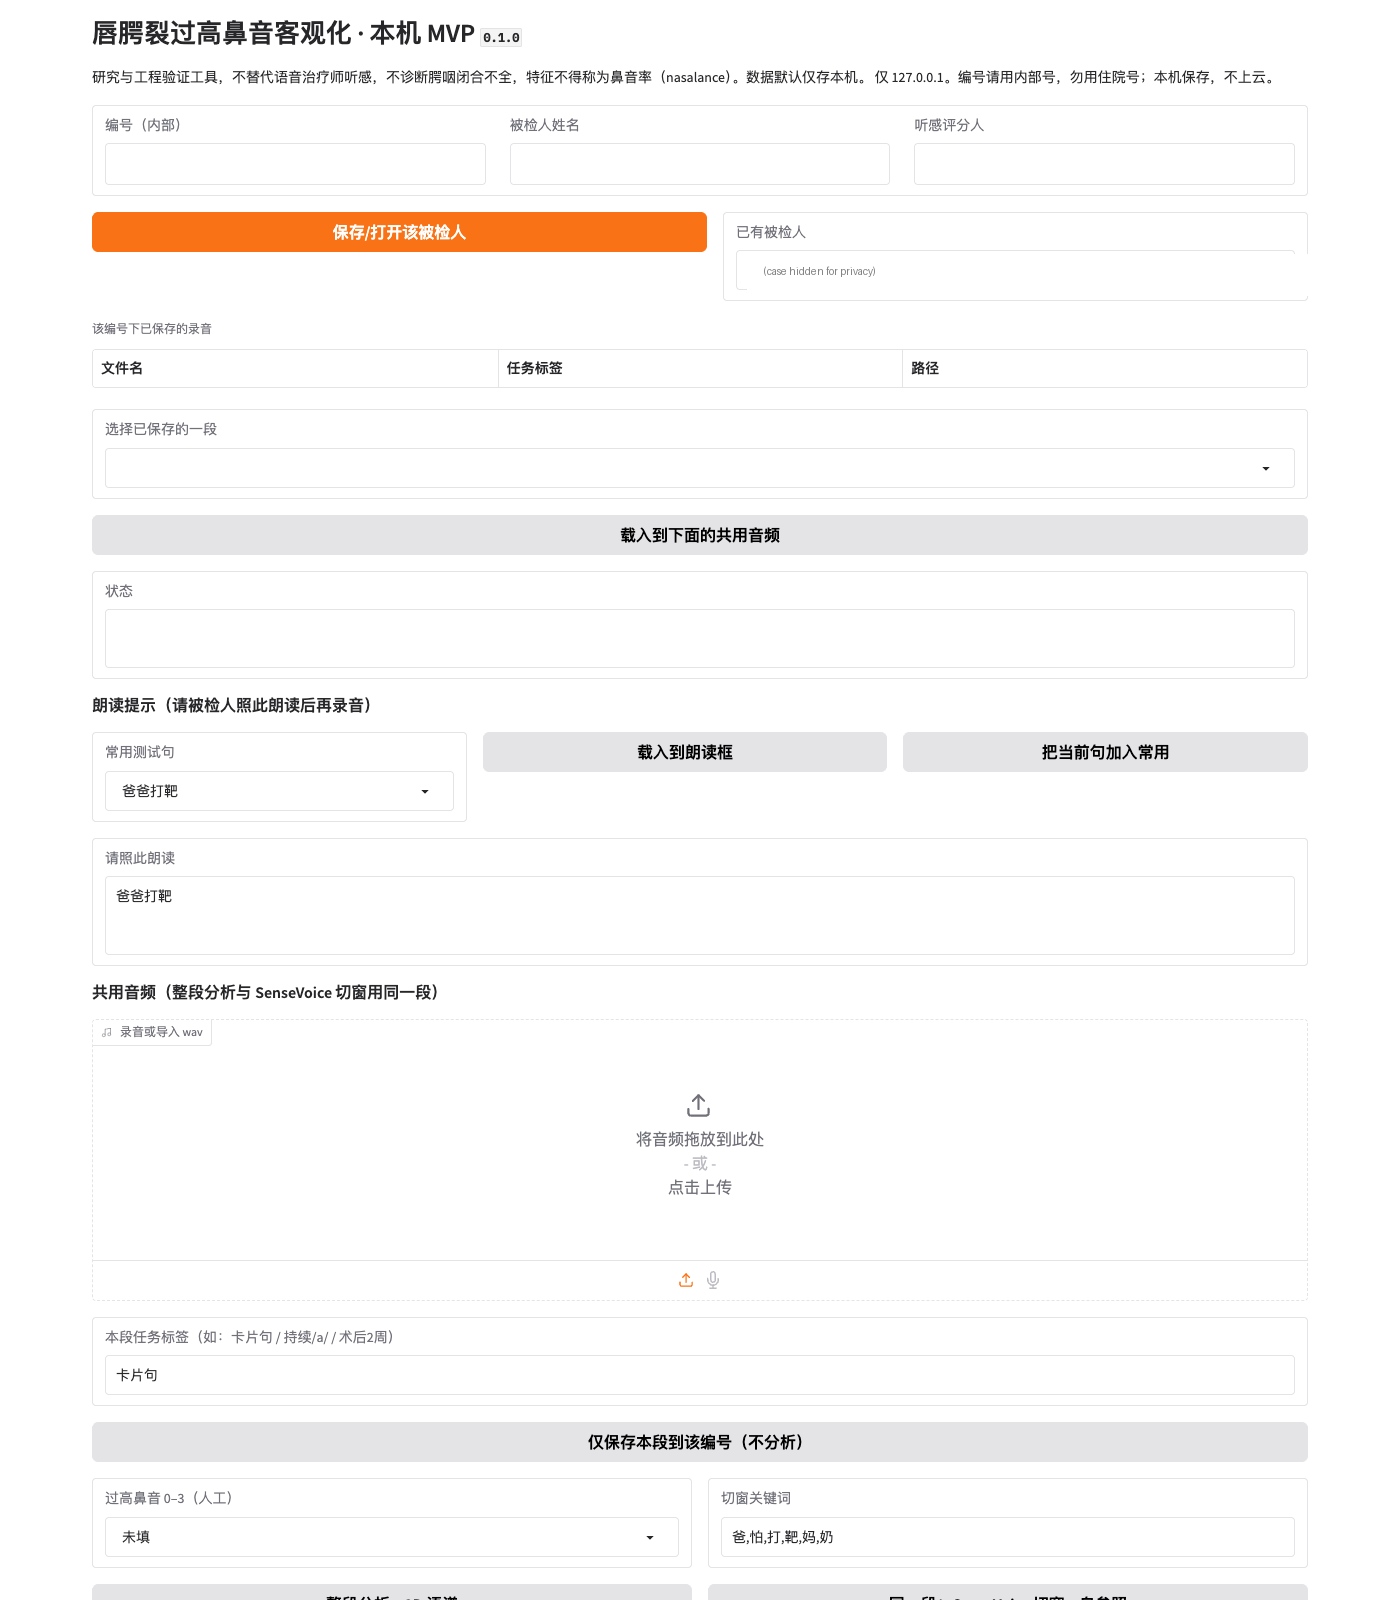
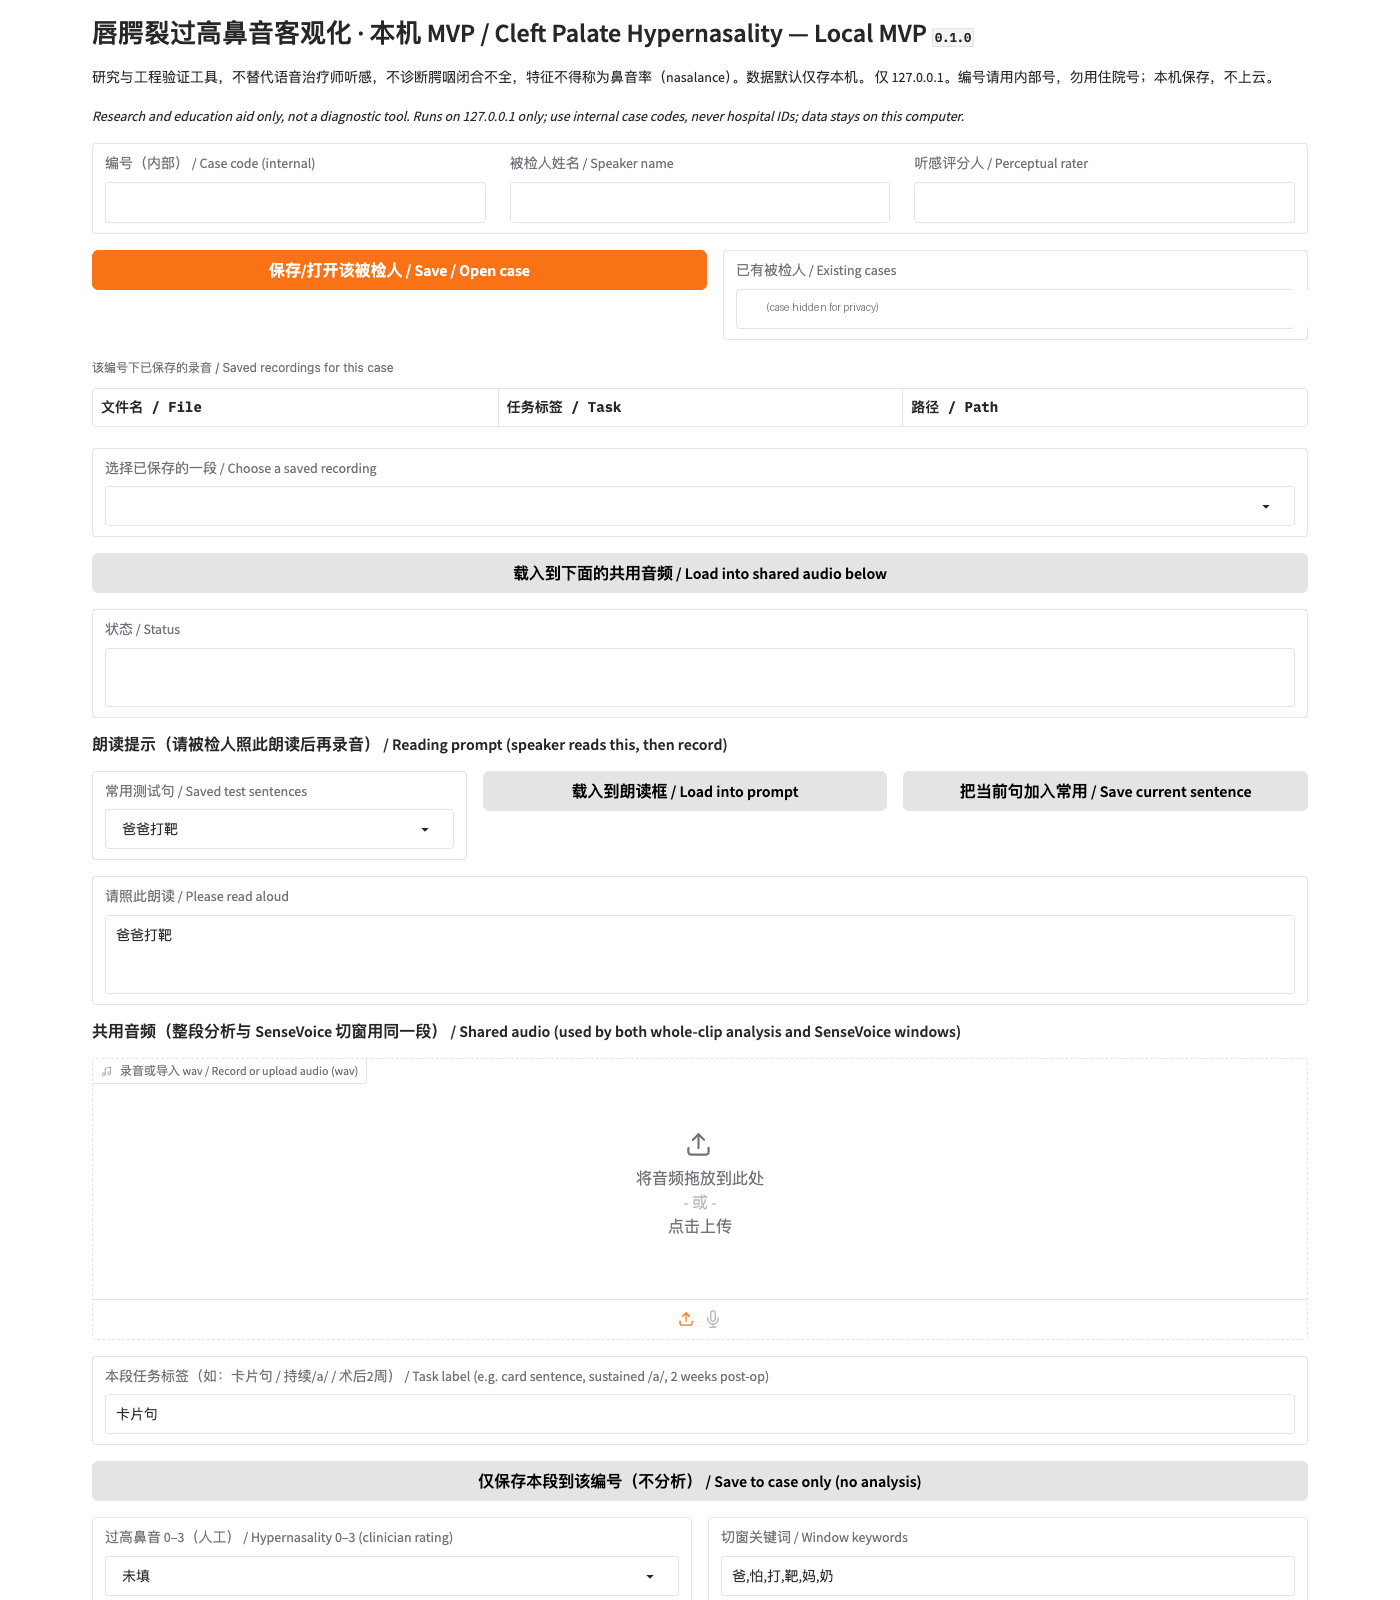
Bilingual (Chinese/English) Gradio UI labels; updated screenshot

diff --git a/nasal_mvp/ui.py b/nasal_mvp/ui.py
@@ -24,7 +24,7 @@ OUT = Path(__file__).resolve().parents[1] / "output"
 
 def _need_subject(code: str, name: str, rater: str) -> str | None:
     if not (code or "").strip():
-        return "请先填写编号，并点「保存/打开该被检人」。"
+        return "请先填写编号，并点「保存/打开该被检人」。 / Enter a case code first, then click Save / Open case."
     upsert_subject(code, name, rater)
     return None
 
@@ -45,10 +45,10 @@ def ui_save_subject(code: str, name: str, rater: str):
 
     if not (code or "").strip():
         ch = subject_choices()
-        return gr.update(choices=ch), "编号不能空。", [], _dd("")
+        return gr.update(choices=ch), "编号不能空。 / Case code cannot be empty.", [], _dd("")
     upsert_subject(code, name, rater)
     ch = subject_choices()
-    return gr.update(choices=ch, value=ch[0] if ch else None), f"已保存被检人 {code} {name}", list_audio(code), _dd(code)
+    return gr.update(choices=ch, value=ch[0] if ch else None), f"已保存被检人 / Case saved: {code} {name}", list_audio(code), _dd(code)
 
 
 def ui_pick_subject(choice: str):
@@ -76,21 +76,21 @@ def ui_save_clip(audio, code: str, name: str, rater: str, label: str, prompt_tex
         return None, err, list_audio(code) if code else [], _dd(code)
     src = resolve_audio(audio)
     if src is None:
-        return None, "请先录音或导入音频。", list_audio(code), _dd(code)
+        return None, "请先录音或导入音频。 / Record or upload audio first.", list_audio(code), _dd(code)
     dest = save_audio(code, src, label or "未标任务")
     _write_prompt(dest, prompt_text)
-    return str(dest), f"已保存：{dest.name}", list_audio(code), _dd(code)
+    return str(dest), f"已保存 / Saved: {dest.name}", list_audio(code), _dd(code)
 
 
 def ui_use_listed(code: str, filename: str):
     if not code:
-        return None, "请先打开被检人。"
+        return None, "请先打开被检人。 / Open a case first."
     if not filename:
-        return None, "请在下拉框选择一段已保存录音。"
+        return None, "请在下拉框选择一段已保存录音。 / Choose a saved recording from the list."
     p = audio_path(code, str(filename))
     if p is None:
-        return None, "找不到该文件。"
-    return str(p), f"已载入 {p.name}"
+        return None, "找不到该文件。 / File not found."
+    return str(p), f"已载入 / Loaded: {p.name}"
 
 
 def ui_analyze(audio, code: str, name: str, rater: str, grade: str, label: str, prompt_text: str = ""):
@@ -99,7 +99,7 @@ def ui_analyze(audio, code: str, name: str, rater: str, grade: str, label: str, 
         return None, err
     src = resolve_audio(audio)
     if src is None:
-        return None, "请先录音、导入，或从列表载入一段。"
+        return None, "请先录音、导入，或从列表载入一段。 / Record, upload, or load a saved recording first."
     dest = save_audio(code, src, label or "整段分析")
     _write_prompt(dest, prompt_text)
     rec = extract_features(dest)
@@ -123,7 +123,7 @@ def ui_align(audio, code: str, name: str, rater: str, keywords: str, label: str,
         return err
     src = resolve_audio(audio)
     if src is None:
-        return "请先录音、导入，或从列表载入一段。"
+        return "请先录音、导入，或从列表载入一段。 / Record, upload, or load a saved recording first."
     dest = save_audio(code, src, label or "切窗")
     _write_prompt(dest, prompt_text)
     cmd_align(dest, (keywords or "").strip() or None, prompt_text)
@@ -147,7 +147,7 @@ def ui_tts() -> str:
     extra = json.loads(sr.read_text(encoding="utf-8")) if sr.exists() else {}
     csv_p = OUT / "features_align_say_card.csv"
     tail = csv_p.read_text(encoding="utf-8") if csv_p.exists() else ""
-    return format_align_zh(extra, tail, note="TTS 演示句，非患儿。")
+    return format_align_zh(extra, tail, note="TTS 演示句，非患儿。 / TTS demo sentence, not a patient.")
 
 
 def ui_report() -> tuple:
@@ -156,7 +156,7 @@ def ui_report() -> tuple:
     cmd_report()
     png = OUT / "plots" / "pair_sim_pre_post_2d.png"
     pdf = OUT / "reports" / "阶段一-本机MVP预实验报告-模拟对照.pdf"
-    note = f"PDF：{pdf}\n对照为 DSP 模拟，非真实患儿。"
+    note = f"PDF：{pdf}\n对照为 DSP 模拟，非真实患儿。 / Simulated comparison, not real patients."
     return (str(png) if png.exists() else None), note
 
 
@@ -169,73 +169,73 @@ def launch(port: int = 7860, inbrowser: bool = True) -> None:
       overflow-y: auto !important;
     }
     """
-    with gr.Blocks(title="鼻音声学 MVP", css=css) as demo:
+    with gr.Blocks(title="鼻音声学 MVP / Nasal Resonance MVP", css=css) as demo:
         gr.Markdown(
-            f"# 唇腭裂过高鼻音客观化 · 本机 MVP `{__version__}`\n\n"
-            f"{DISCLAIMER} 仅 127.0.0.1。编号请用内部号，勿用住院号；本机保存，不上云。"
+            f"# 唇腭裂过高鼻音客观化 · 本机 MVP / Cleft Palate Hypernasality — Local MVP `{__version__}`\n\n"
+            f"{DISCLAIMER} 仅 127.0.0.1。编号请用内部号，勿用住院号；本机保存，不上云。\n\n*Research and education aid only, not a diagnostic tool. Runs on 127.0.0.1 only; use internal case codes, never hospital IDs; data stays on this computer.*"
         )
         with gr.Row():
-            code = gr.Textbox(label="编号（内部）", scale=1)
-            subj = gr.Textbox(label="被检人姓名", scale=1)
-            rater = gr.Textbox(label="听感评分人", scale=1)
+            code = gr.Textbox(label="编号（内部） / Case code (internal)", scale=1)
+            subj = gr.Textbox(label="被检人姓名 / Speaker name", scale=1)
+            rater = gr.Textbox(label="听感评分人 / Perceptual rater", scale=1)
         with gr.Row():
-            btn_save = gr.Button("保存/打开该被检人", variant="primary")
-            picker = gr.Dropdown(label="已有被检人", choices=subject_choices(), allow_custom_value=False)
+            btn_save = gr.Button("保存/打开该被检人 / Save / Open case", variant="primary")
+            picker = gr.Dropdown(label="已有被检人 / Existing cases", choices=subject_choices(), allow_custom_value=False)
         files = gr.Dataframe(
-            headers=["文件名", "任务标签", "路径"],
-            label="该编号下已保存的录音",
+            headers=["文件名 / File", "任务标签 / Task", "路径 / Path"],
+            label="该编号下已保存的录音 / Saved recordings for this case",
             interactive=False,
             wrap=True,
         )
-        clip_dd = gr.Dropdown(label="选择已保存的一段", choices=[])
-        load_btn = gr.Button("载入到下面的共用音频")
-        status = gr.Textbox(label="状态", lines=2)
+        clip_dd = gr.Dropdown(label="选择已保存的一段 / Choose a saved recording", choices=[])
+        load_btn = gr.Button("载入到下面的共用音频 / Load into shared audio below")
+        status = gr.Textbox(label="状态 / Status", lines=2)
 
-        gr.Markdown("### 朗读提示（请被检人照此朗读后再录音）")
+        gr.Markdown("### 朗读提示（请被检人照此朗读后再录音） / Reading prompt (speaker reads this, then record)")
         with gr.Row():
-            prompt_dd = gr.Dropdown(label="常用测试句", choices=load_bank(), value=load_bank()[0])
-            btn_load_p = gr.Button("载入到朗读框")
-            btn_add_p = gr.Button("把当前句加入常用")
+            prompt_dd = gr.Dropdown(label="常用测试句 / Saved test sentences", choices=load_bank(), value=load_bank()[0])
+            btn_load_p = gr.Button("载入到朗读框 / Load into prompt")
+            btn_add_p = gr.Button("把当前句加入常用 / Save current sentence")
         prompt = gr.Textbox(
-            label="请照此朗读",
+            label="请照此朗读 / Please read aloud",
             value=load_bank()[0],
             lines=3,
-            placeholder="可改字、可从常用句载入",
+            placeholder="可改字、可从常用句载入 / Edit, or load a saved sentence",
         )
 
-        gr.Markdown("### 共用音频（整段分析与 SenseVoice 切窗用同一段）")
-        audio = gr.Audio(sources=["upload", "microphone"], type="filepath", label="录音或导入 wav")
-        label = gr.Textbox(label="本段任务标签（如：卡片句 / 持续/a/ / 术后2周）", value="卡片句")
-        save_clip = gr.Button("仅保存本段到该编号（不分析）")
+        gr.Markdown("### 共用音频（整段分析与 SenseVoice 切窗用同一段） / Shared audio (used by both whole-clip analysis and SenseVoice windows)")
+        audio = gr.Audio(sources=["upload", "microphone"], type="filepath", label="录音或导入 wav / Record or upload audio (wav)")
+        label = gr.Textbox(label="本段任务标签（如：卡片句 / 持续/a/ / 术后2周） / Task label (e.g. card sentence, sustained /a/, 2 weeks post-op)", value="卡片句")
+        save_clip = gr.Button("仅保存本段到该编号（不分析） / Save to case only (no analysis)")
 
         with gr.Row():
             with gr.Column():
-                grade = gr.Dropdown(["未填", "0", "1", "2", "3"], value="未填", label="过高鼻音 0–3（人工）")
-                btn_an = gr.Button("整段分析 + 2D 语谱")
+                grade = gr.Dropdown(["未填", "0", "1", "2", "3"], value="未填", label="过高鼻音 0–3（人工） / Hypernasality 0–3 (clinician rating)")
+                btn_an = gr.Button("整段分析 + 2D 语谱 / Analyze whole clip + spectrogram")
             with gr.Column():
-                kws = gr.Textbox(label="切窗关键词", value="爸,怕,打,靶,妈,奶")
-                btn_al = gr.Button("同一段：SenseVoice 切窗 + 自参照")
-        img = gr.Image(label="2D 语谱图")
+                kws = gr.Textbox(label="切窗关键词 / Window keywords", value="爸,怕,打,靶,妈,奶")
+                btn_al = gr.Button("同一段：SenseVoice 切窗 + 自参照 / SenseVoice word windows + self-ref index")
+        img = gr.Image(label="2D 语谱图 / Spectrogram")
         with gr.Row():
             feat_left = gr.Textbox(
-                label="左：整段分析特征",
+                label="左：整段分析特征 / Left: whole-clip features",
                 lines=18,
                 max_lines=18,
                 autoscroll=False,
                 elem_id="feat-left",
             )
             feat_right = gr.Textbox(
-                label="右：SenseVoice 切窗 + 自参照",
+                label="右：SenseVoice 切窗 + 自参照 / Right: word windows + self-ref index",
                 lines=18,
                 max_lines=18,
                 autoscroll=False,
                 elem_id="feat-right",
             )
         with gr.Row():
-            gr.Button("TTS 演示句（非患儿）").click(ui_tts, outputs=feat_right)
-            btn_rep = gr.Button("生成模拟术前/术后 PDF")
-        img_rep = gr.Image(label="模拟对照图")
-        note_rep = gr.Textbox(label="报告路径")
+            gr.Button("TTS 演示句（非患儿） / TTS demo (not a patient)").click(ui_tts, outputs=feat_right)
+            btn_rep = gr.Button("生成模拟术前/术后 PDF / Generate simulated pre/post PDF")
+        img_rep = gr.Image(label="模拟对照图 / Simulated comparison chart")
+        note_rep = gr.Textbox(label="报告路径 / Report path")
 
         def _load_prompt(choice):
             return choice or ""
@@ -244,7 +244,7 @@ def launch(port: int = 7860, inbrowser: bool = True) -> None:
             import gradio as gr
 
             bank = add_prompt(text)
-            return gr.update(choices=bank, value=text.strip() if text and text.strip() else None), "已加入常用测试句。"
+            return gr.update(choices=bank, value=text.strip() if text and text.strip() else None), "已加入常用测试句。 / Added to saved sentences."
 
         btn_load_p.click(_load_prompt, [prompt_dd], [prompt])
         prompt_dd.change(_load_prompt, [prompt_dd], [prompt])
